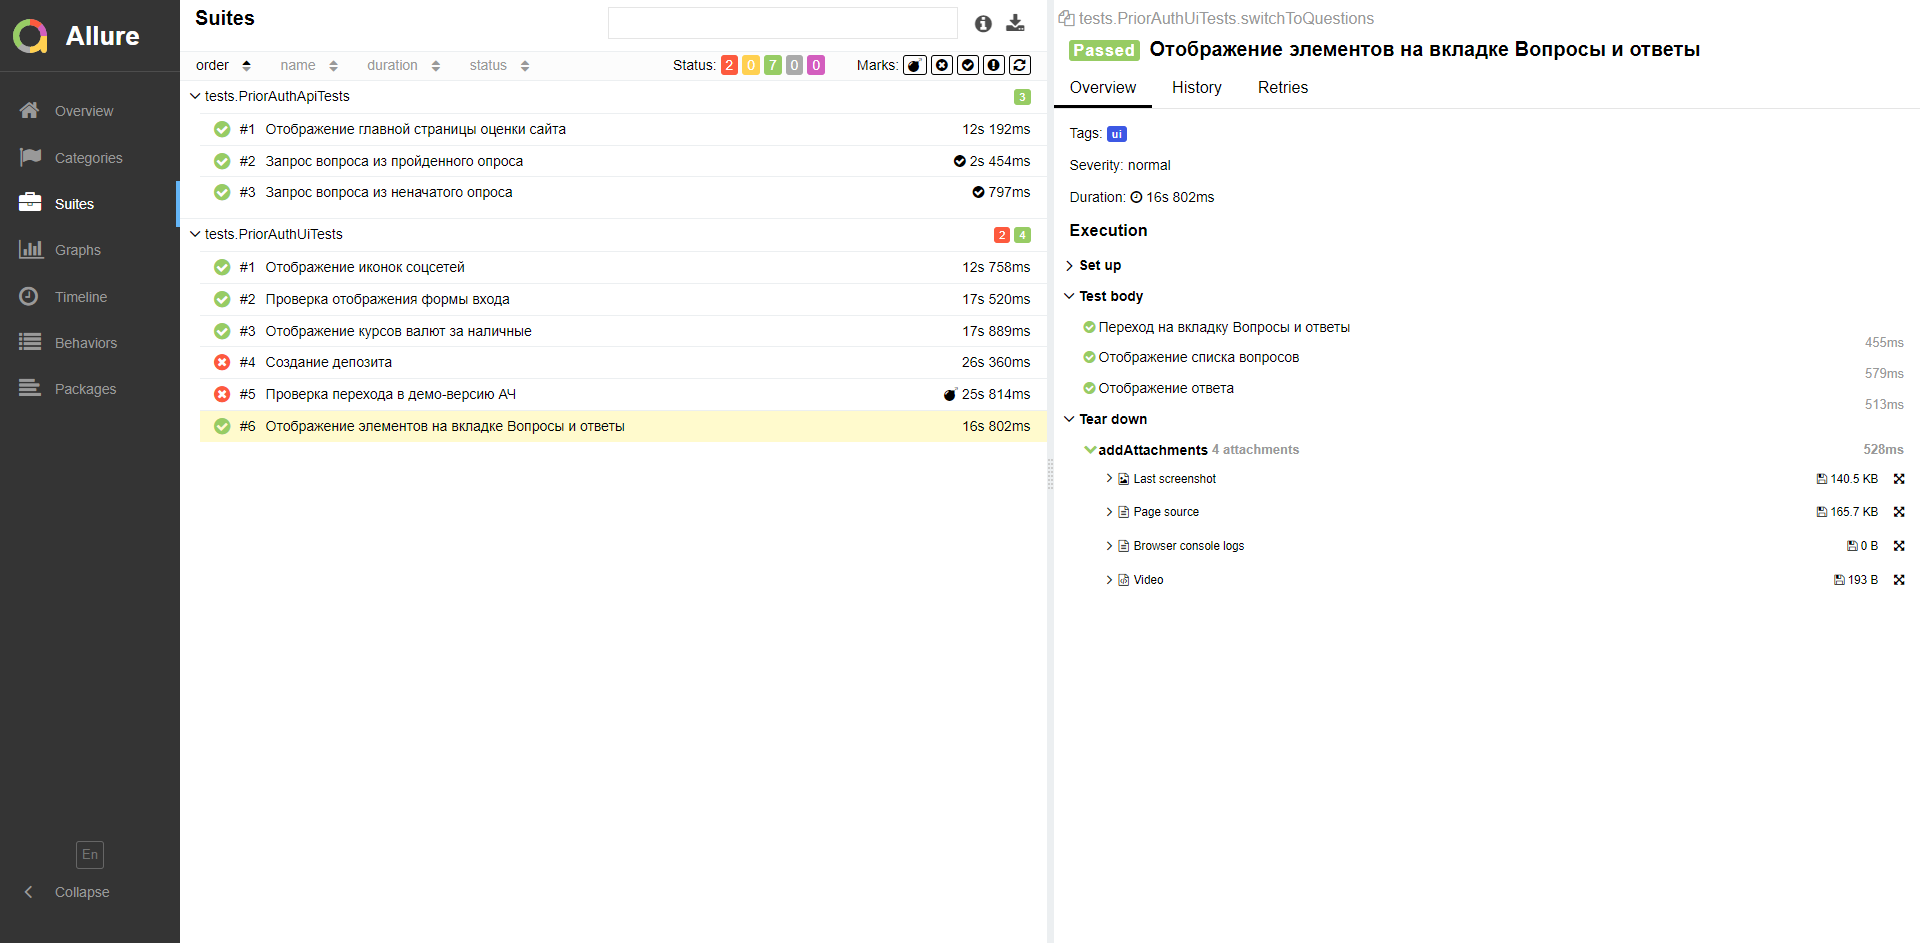
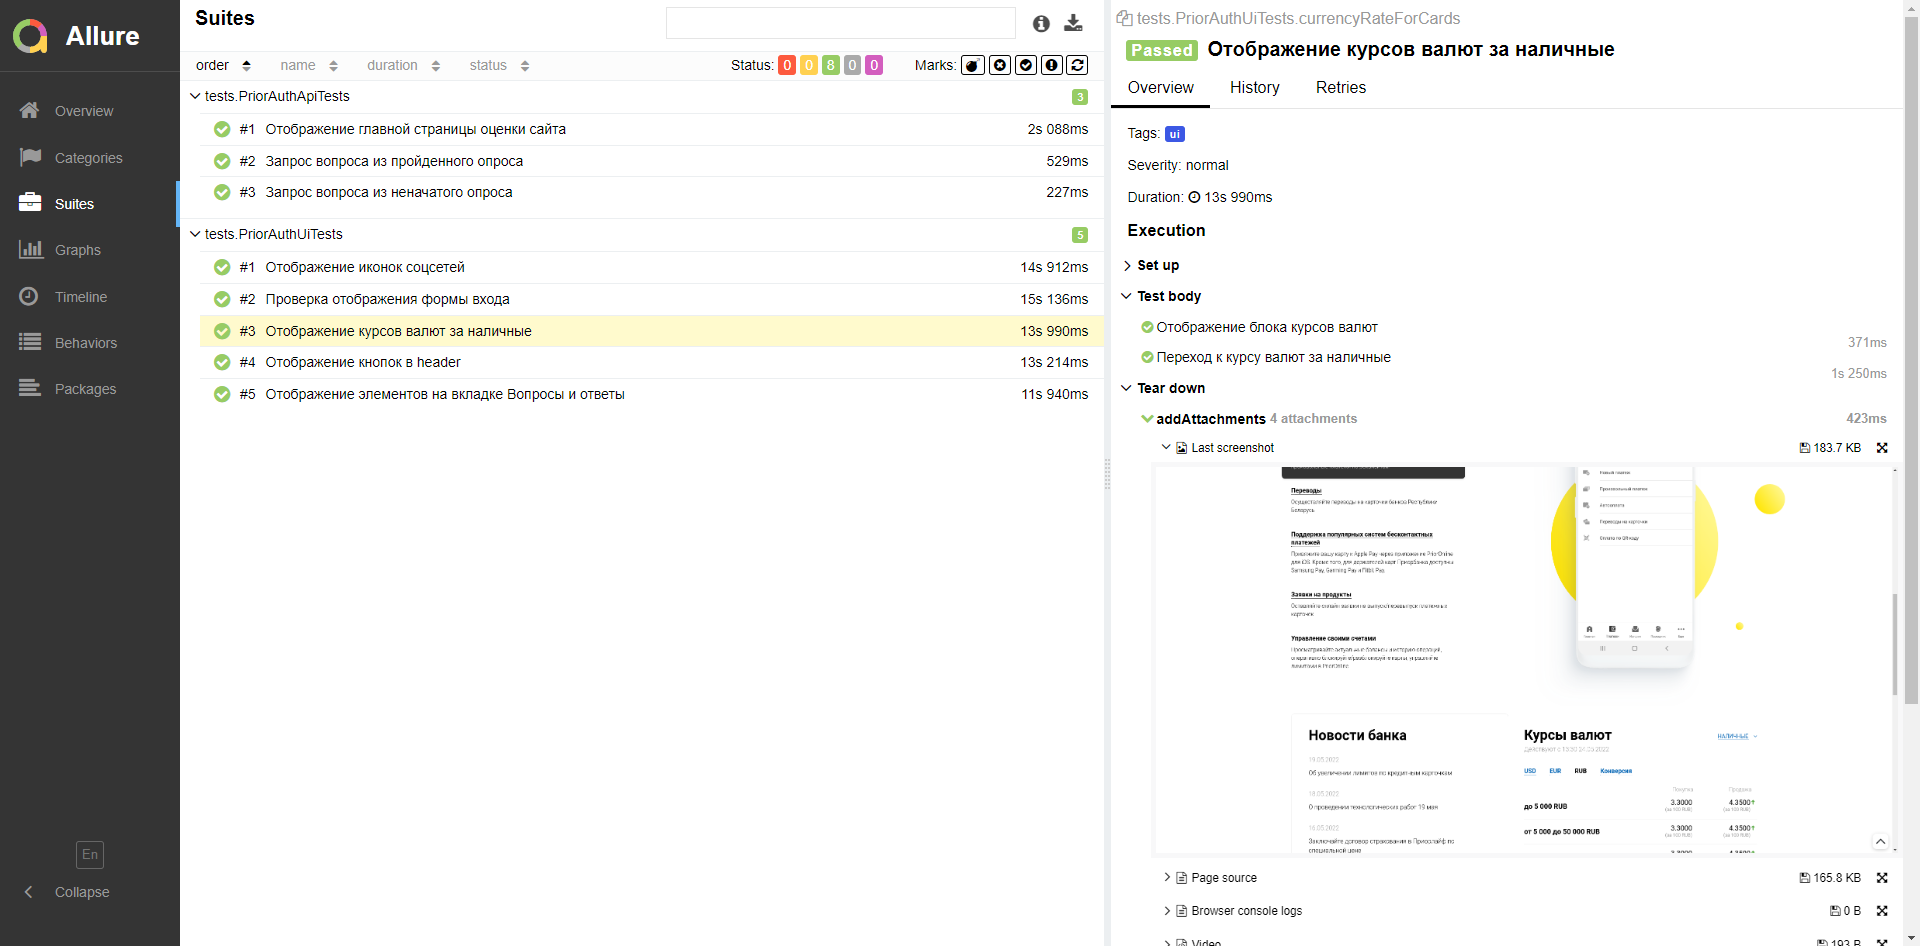
changes in readme

diff --git a/README.md b/README.md
@@ -41,15 +41,18 @@
 - После завершения прогона тестов, специальный `Telegram Bot` отправляет в `Telegram` краткий вариант Allure Report
 
 ## :fairy: Реализованные проверки
-UI тесты:
+#### UI тесты:
 - [✓] Проверка отображения формы входа
-- [✓] Проверка перехода в демо-версию АЧ
 - [✓] Отображение элементов на вкладке Вопросы и ответы
 - [✓] Отображение иконок соцсетей
+- [✓] Отображение кнопок в header
 - [✓] Отображение курсов валют за наличные
-- [✓] Создание депозита
 
-API тесты:
+В ветке `local_tests` дополнительно есть:
+- [✓] Создание депозита
+- [✓] Проверка перехода в демо-версию АЧ
+
+#### API тесты:
 - [✓] Отображение главной страницы оценки сайта
 - [✓] Отображение первой формы оценки
 - [✓] Отображение второй формы оценки
